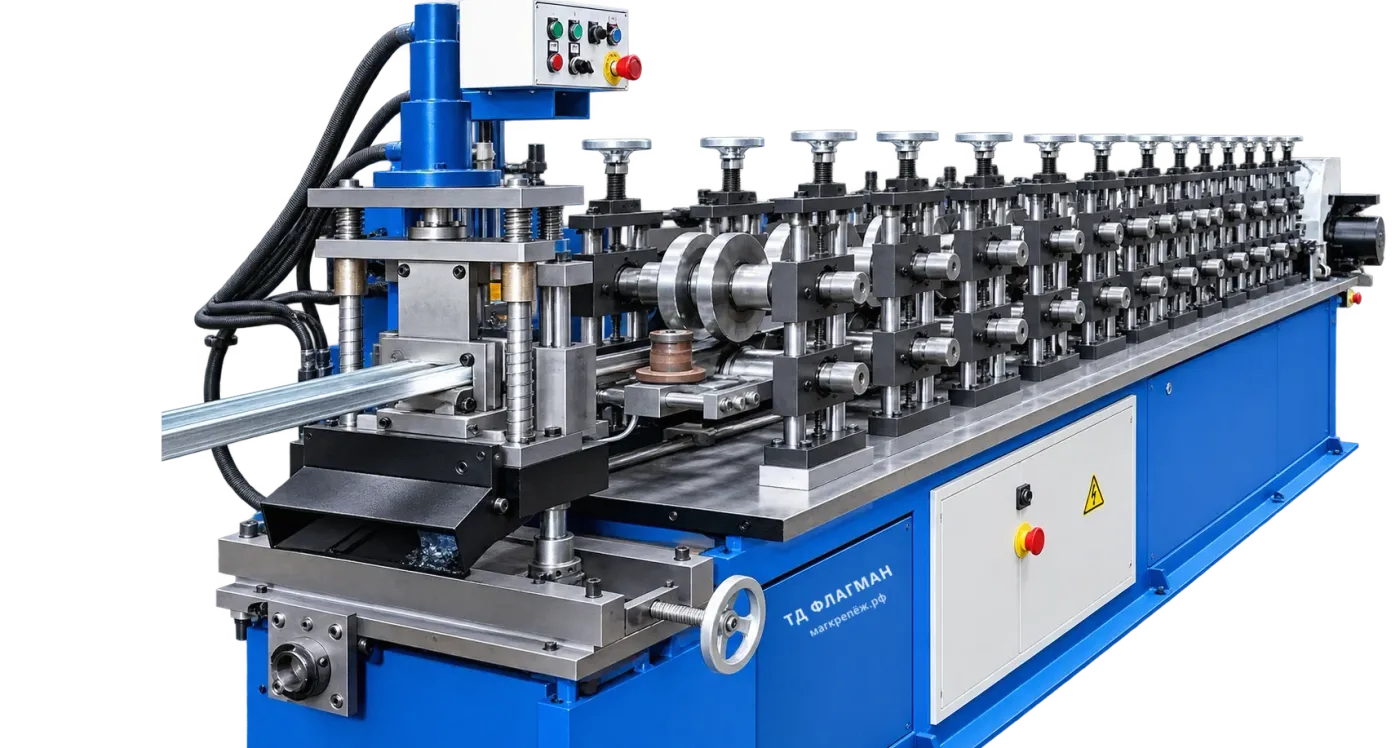
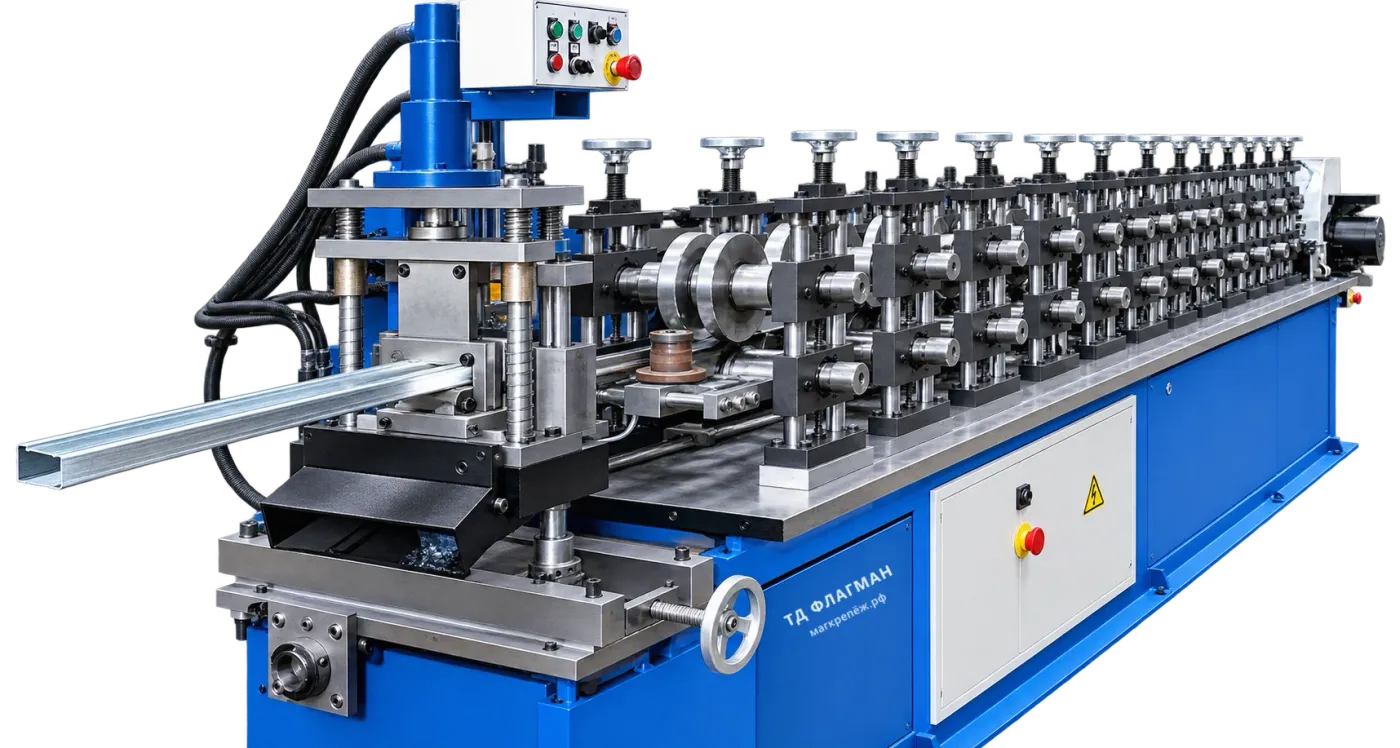
Первый экран: одна цельная фотография станка вместо накладки с выезжающим профилем

Changed region(s): [[0.0, 0.5535, 0.1229, 0.6765]]

diff --git a/index.html b/index.html
@@ -266,7 +266,7 @@ p{margin:0}
 /* cut-out profile sits straight on the page, no plate behind it.
    min-width:0 matters: without it the grid column grows to the image's own
    pixel width on narrow screens and the whole page scrolls sideways. */
-.hero-img{position:relative;padding:8px 0;min-width:0;cursor:pointer}
+.hero-img{position:relative;padding:8px 0;min-width:0}
 /* on wide screens the picture runs to the edge of the window instead of
    stopping at the text column: the machine grows with it, and the plate on
    its side keeps the same share of the width, so it stays in frame */
@@ -279,19 +279,14 @@ p{margin:0}
 /* the line runs wider than its column and off the right edge, so it reads big */
 .mach{position:relative;width:149%;margin-right:-49%}
 .mach-body{position:relative;z-index:2;width:100%;height:auto;display:block}
-.mach-rail{position:absolute;z-index:1;left:0;top:49.62%;width:11.54%;height:auto;display:block}
+/* one unbroken photograph, shown as it is: no overlay, no entrance, nothing
+   that can leave the main picture half-drawn */
 
 @media (prefers-reduced-motion:no-preference){
   /* parked under the machine until the block is on screen, otherwise on phones
      the profile finishes travelling before the visitor scrolls down to it */
-  .hero-img.armed .mach-rail{transform:translate(100%,-24%)}
-  .hero-img.armed.go .mach-rail{animation:railOut 2.4s cubic-bezier(.2,.75,.25,1) both}
-}
+  .hero-img.armed   .hero-img.armed.go }
 /* travels left and slightly down, following the tilt of the profile itself */
-@keyframes railOut{
-  from{transform:translate(100%,-24%)}
-  to{transform:translate(0,0)}
-}
 
 /* ---------- typing effect on the facts strip ---------- */
 .tw-cursor::after{
@@ -868,7 +863,6 @@ window.addEventListener('pageshow', function(e){
     <div class="hero-img rv">
       <div class="mach">
         <img class="mach-body" src="assets/mach_body.webp" alt="Профилегибочная линия ТД Флагман" fetchpriority="high">
-        <img class="mach-rail" src="assets/mach_rail.webp" alt="Профиль на выходе из линии">
       </div>
     </div>
   </div>
